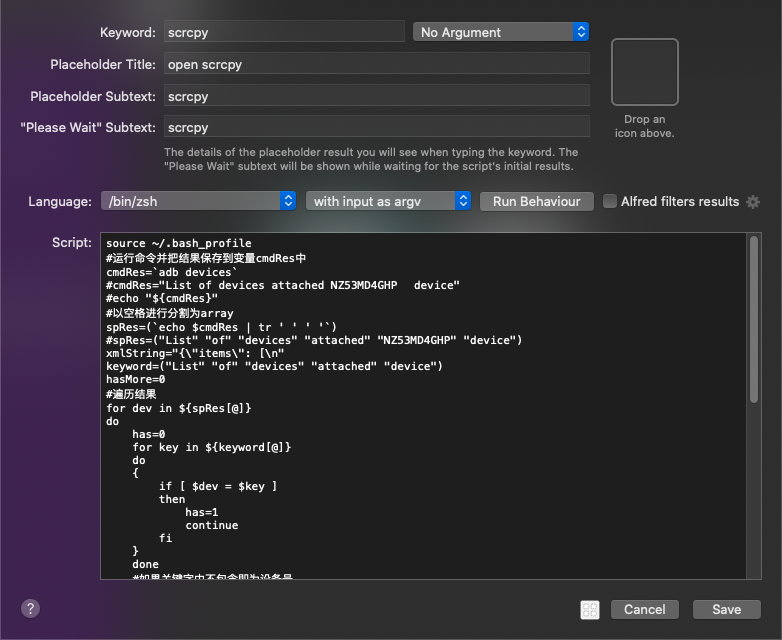
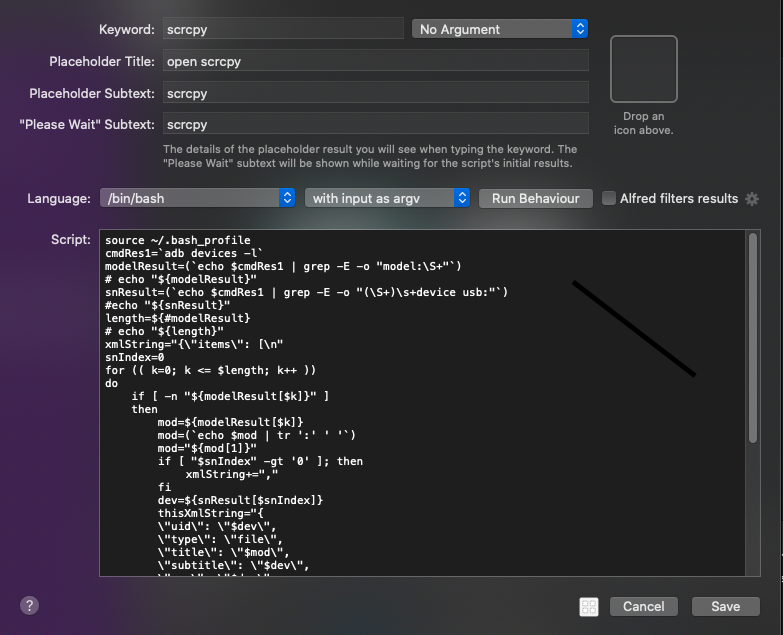
update a note

diff --git a/Alfred Workflow实现scrcpy快捷启动.md b/Alfred Workflow实现scrcpy快捷启动.md
@@ -14,59 +14,52 @@
 
 ```shell
 source ~/.bash_profile
-#运行命令并把结果保存到变量cmdRes中
-cmdRes=`adb devices`
-#cmdRes="List of devices attached NZ53MD4GHP	device"
-#echo "${cmdRes}"
-#以空格进行分割为array
-spRes=(`echo $cmdRes | tr ' ' ' '`)
-#spRes=("List" "of" "devices" "attached" "NZ53MD4GHP" "device")
+cmdRes1=`adb devices -l`
+modelResult=(`echo $cmdRes1 | grep -E -o "model:\S+"`)
+# echo "${modelResult}"
+snResult=(`echo $cmdRes1 | grep -E -o "(\S+)\s+device usb:"`)
+#echo "${snResult}"
+length=${#modelResult}
+# echo "${length}"
 xmlString="{\"items\": [\n"
-keyword=("List" "of" "devices" "attached" "device")
-hasMore=0
-#遍历结果
-for dev in ${spRes[@]}
+snIndex=0
+for (( k=0; k <= $length; k++ ))
 do
-    has=0
-    for key in ${keyword[@]}
-    do
-    {
-        if [ $dev = $key ]
-        then
-            has=1
-            continue
-        fi
-    }
-    done
-    #如果关键字中不包含即为设备号
-    if [ "$has" -eq '0' ]; then
-     #  echo $dev
-        if [ "$hasMore" -eq '1' ]; then
+    if [ -n "${modelResult[$k]}" ]
+    then
+        mod=${modelResult[$k]}
+        mod=(`echo $mod | tr ':' ' '`)
+        mod="${mod[1]}"
+        if [ "$snIndex" -gt '0' ]; then
 	        xmlString+=","
         fi
-    hasMore=1
-    thisXmlString="{
+        dev=${snResult[$snIndex]}
+        thisXmlString="{
         \"uid\": \"$dev\",
         \"type\": \"file\",
-        \"title\": \"$dev\",
+        \"title\": \"$mod\",
         \"subtitle\": \"$dev\",
         \"arg\": \"$dev\",
         \"autocomplete\": \"$dev\"
     }\n"
 	# Append this process's XML string to the global XML string.
 	xmlString+=$thisXmlString
+    snIndex+=3
     fi
 done
-
 xmlString+="]}"
 # xmlString="{\"items\": [
 # { \"uid\": \"NZ53MD4GHP\", \"type\": \"file\", \"title\": \"NZ53MD4GHP\", \"subtitle\": #\"NZ53MD4GHP\", \"arg\": \"NZ53MD4GHP\", \"autocomplete\": \"NZ53MD4GHP\" }
 # ]}"
 #最后将结果输出,就可以在列表中选择了
 echo -e $xmlString
+
 ```
 
-需要注意的点是，不要在脚本中输出非结果json外的信息，因为输出都被当为结果了，如果不是标准的json或者xml就会解析出错。构建输出标准的结果就能实现列表的展示和选项的选择了。
+需要注意的点是:
+
+1. 不要在脚本中输出非结果json外的信息，因为输出都被当为结果了，如果不是标准的json或者xml就会解析出错。构建输出标准的结果就能实现列表的展示和选项的选择了。
+2. zsh和bash的效果是不一样的,上面后面修改过的脚本在zsh下就不能生效.
 
 ![2](Alfred Workflow实现scrcpy快捷启动.assets/2.png)
 
@@ -82,7 +75,7 @@ echo -e $xmlString
 
 ## 打包下载
 
-https://wwx.lanzoux.com/iTq7njsq7gb
-
+旧版本: https://wwx.lanzoux.com/iTq7njsq7gb
+新版本: [https://wwx.lanzoux.com/iRsI2k3lkih](https://wwx.lanzoux.com/iRsI2k3lkih)
 模式都是相同的，根据这个可以实现更多有趣实用的功能。
 
